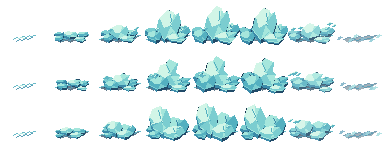
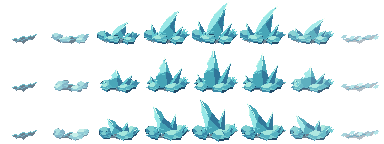
Send pointed ice peaks outward on a rolling lateral wave

diff --git a/docs/AI_HANDOFF.md b/docs/AI_HANDOFF.md
@@ -1,5 +1,11 @@
 # ROGGE 开发交接
 
+## 20261121-204907 冰刃波的尖峰与侧摆
+
+Debug →「冰刃波 · 碎冰练习」。冰层挤压后抬起三种细长的尖峰。前沿快速冒尖，后段回落为较矮的碎晶。峰根沿每次施放锁定的方向前移，同时偏向两侧；峰尖的倾转滞后约 40 毫秒，相邻冰峰的摆动依次传递。碰撞扫掠复用峰根的位置，并覆盖回摆后的前冲。既有冰封与碎冰规则沿用。
+
+同场景前后录屏位于私有试玩站的 ice-wave-comparison.webp。Godot 4.7 Web 包专项覆盖水平、竖直和斜向施法的左右偏移、向前移动、伤害去重、五级冰封率及晶面高光。
+
 ## 20261121-202241 冰刃波的挤压与晶面高光
 
 Debug →「冰刃波 · 碎冰练习」。冰板两块一组，后排推进、挤到前排后回落，前排受压抬起并向前滑开。三个像素图集行提供不同冰板轮廓。命中沿冰板底部的移动路径做胶囊扫掠，每波每个目标只命中一次。冰封外壳先成形，再在左、上、右三块切面间轮换高光，亮过后停顿。一级至五级的基础冰封率为 40%、48%、56%、64%、72%，由同一个公式驱动实战、锻造和卡片预览。
